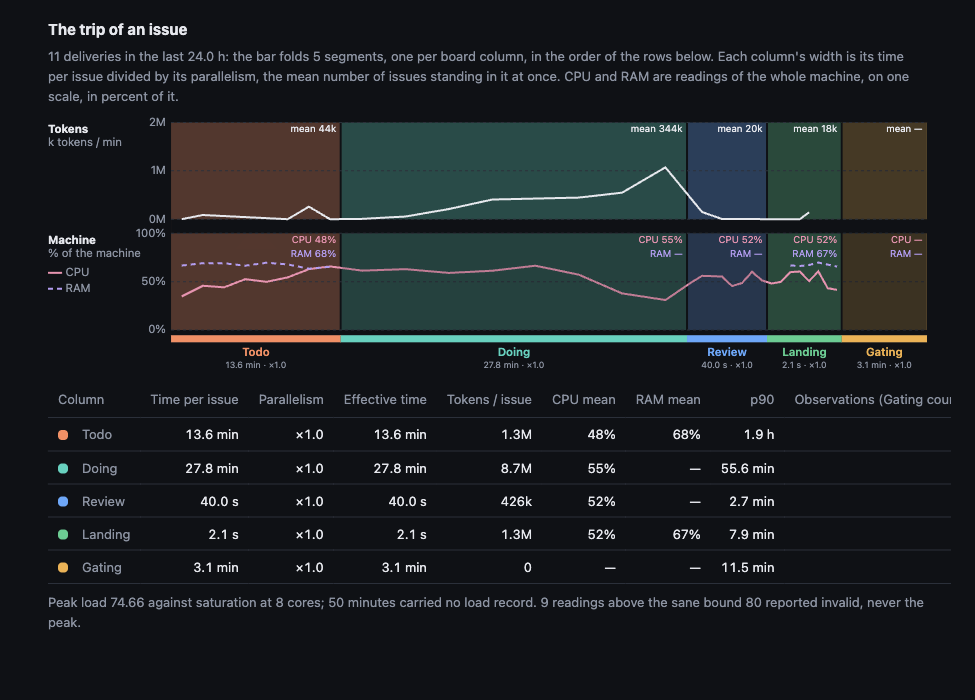
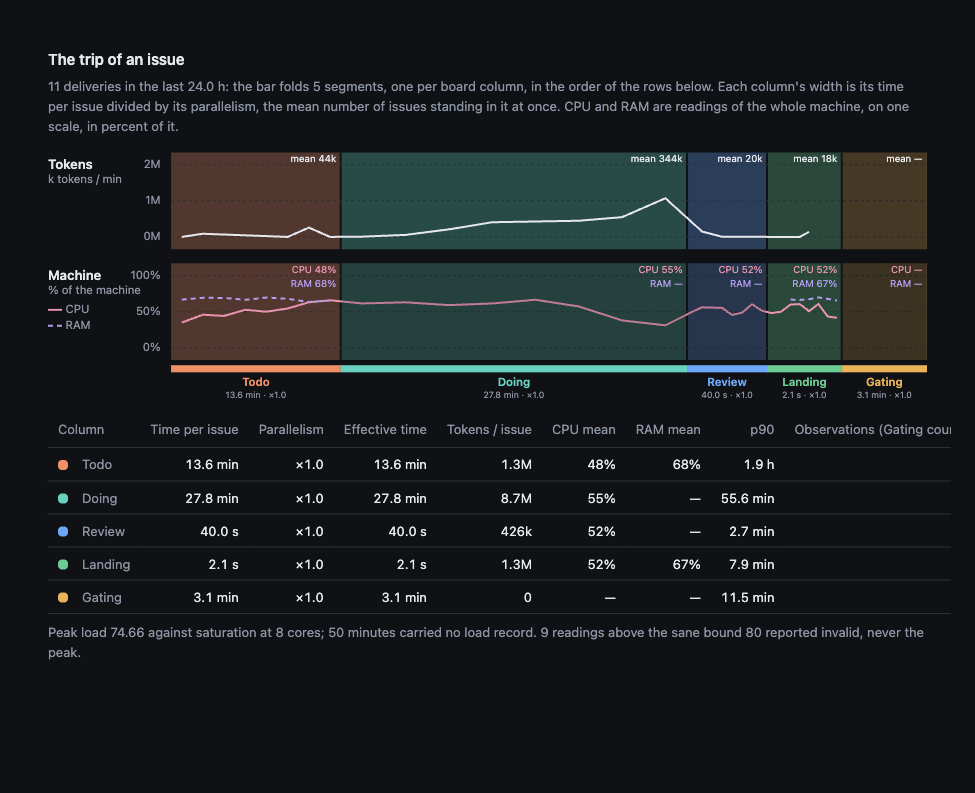
Give each trip chart lane an inner margin and its axis a gap
The mock draws each lane's scale inside its band by a margin, the axis
values a gap left of the plot, and the lane title larger, on the row of
its top value. Weights use the shared 600, so the type test passes.

Refs #2282

diff --git a/contrib/squad-goal/scripts/hub-profiler.js b/contrib/squad-goal/scripts/hub-profiler.js
@@ -58,7 +58,7 @@ const profTripTime=c=>`${profTripNum(c.effective_s)} · ${profTripPar(c.parallel
 // A text's width is its user-unit font size times its character count, so a label too wide for its column takes a leader
 // line instead of a box over its neighbour. Every glyph in the chart is sized in SVG user units, so its box scales with
 // the viewBox: the layout holds at 390 px and at 1440 px alike. A CSS caption size would not scale, so the chart sets none.
-const PROF_TRIP_W=1000,PROF_TRIP_GUTTER=140,PROF_TRIP_LANE=110,PROF_TRIP_TOP=8,PROF_TRIP_GAP=16;
+const PROF_TRIP_W=1000,PROF_TRIP_GUTTER=140,PROF_TRIP_LANE=110,PROF_TRIP_TOP=8,PROF_TRIP_GAP=16,PROF_TRIP_PAD=14,PROF_TRIP_AXIS_GAP=12,PROF_TRIP_TITLE=15;
 const PROF_TRIP_FONT=13,PROF_TRIP_CHAR=PROF_TRIP_FONT*0.6,PROF_TRIP_ROW=16;
 const PROF_TRIP_SMALL=10,PROF_TRIP_MEAN=11,PROF_TRIP_BAR=8,PROF_TRIP_BAR_GAP=6;
 const profTextW=(s,size)=>String(s).length*PROF_TRIP_CHAR*(size||PROF_TRIP_FONT)/PROF_TRIP_FONT;
@@ -109,12 +109,15 @@ function profTripChart(t,cols){
  const barY=macBot+PROF_TRIP_BAR_GAP,barBot=barY+PROF_TRIP_BAR,labTop=barBot+PROF_TRIP_ROW;
  // A point is a share (0 to 1) and an axis tick is a percent (0 to 100): the two scales differ, so no 50% tick lands
  // on the lane's top beside the 100% (#2253).
- const ty=v=>tokTop+lane*(1-(top>0?Math.min(Math.max(v,0)/top,1):0)),my=v=>macTop+lane*(1-Math.min(Math.max(v,0),1));
- const myTick=v=>macTop+lane*(1-Math.min(Math.max(v,0),100)/100);
+ // The scale stands inside each lane by a margin, so the top line and the zero line keep air from the lane's edges and
+ // the axis values stand beside their lines, never on the edge of the lane, as the mock draws them (#2282).
+ const P=PROF_TRIP_PAD,span=lane-2*P;
+ const ty=v=>tokTop+P+span*(1-(top>0?Math.min(Math.max(v,0)/top,1):0)),my=v=>macTop+P+span*(1-Math.min(Math.max(v,0),1));
+ const myTick=v=>macTop+P+span*(1-Math.min(Math.max(v,0),100)/100);
  const tx=(b,p)=>b.x0+Math.min(Math.max(p,0),1)*(b.x1-b.x0);
  // Each lane's values stand once, in the gutter, so no value is drawn over a lane, a band or a mean (#2253).
  const axis=(values,y0,fmt)=>values.map(v=>`<line class=ptg0 x1="${G}" y1="${y0(v).toFixed(1)}" x2="${PROF_TRIP_W}" y2="${y0(v).toFixed(1)}"></line>`
-  +`<text class=ptt x="${G-6}" y="${(y0(v)+4).toFixed(1)}" text-anchor=end>${esc(fmt(v))}</text>`).join("");
+  +`<text class=ptt x="${G-PROF_TRIP_AXIS_GAP}" y="${(y0(v)+4).toFixed(1)}" text-anchor=end>${esc(fmt(v))}</text>`).join("");
  const bandsOf=(y,h)=>bands.map(b=>`<rect class="ptc pts-${esc(b.c.column)}" x="${b.x0.toFixed(1)}" width="${(b.x1-b.x0).toFixed(1)}" y="${y}" height="${h}"></rect>`).join("");
  // One band per column over both lanes, so a column reads as one block; a dark gap then parts the two lanes, as the
  // mock draws them (#2282).
@@ -126,14 +129,16 @@ function profTripChart(t,cols){
  // Each lane's title, unit and legend stand in the left gutter (#2255); the Machine lane's legend keeps the colours of
  // the two lines it names, and the RAM entry's hover names the machine's memory in gigabytes.
  const ramMem=t.mem_gb==null?"":"<title>the machine holds "+Number(t.mem_gb).toFixed(1)+" GB of memory</title>";
- const gutter=`<text class=ptn x="0" y="${(tokTop+12).toFixed(1)}">Tokens</text>`
-  +`<text class=ptu x="0" y="${(tokTop+27).toFixed(1)}">k tokens / min</text>`
-  +`<text class=ptn x="0" y="${(macTop+12).toFixed(1)}">Machine</text>`
-  +`<text class=ptu x="0" y="${(macTop+27).toFixed(1)}">% of the machine</text>`
-  +`<line class="ptkey ptl-cpu" x1="0" y1="${(macTop+45).toFixed(1)}" x2="16" y2="${(macTop+45).toFixed(1)}"></line>`
-  +`<text class=ptu x="20" y="${(macTop+49).toFixed(1)}">CPU</text>`
-  +`<line class="ptkey ptl-ram" x1="0" y1="${(macTop+63).toFixed(1)}" x2="16" y2="${(macTop+63).toFixed(1)}">${ramMem}</line>`
-  +`<text class=ptu x="20" y="${(macTop+67).toFixed(1)}">RAM</text>`;
+ // A lane's title stands on the line of its top value, so the title and the scale read as one row.
+ const tt=tokTop+P+5,mt=macTop+P+5;
+ const gutter=`<text class=ptn x="0" font-size=${PROF_TRIP_TITLE} y="${tt.toFixed(1)}">Tokens</text>`
+  +`<text class=ptu x="0" y="${(tt+16).toFixed(1)}">k tokens / min</text>`
+  +`<text class=ptn x="0" font-size=${PROF_TRIP_TITLE} y="${mt.toFixed(1)}">Machine</text>`
+  +`<text class=ptu x="0" y="${(mt+16).toFixed(1)}">% of the machine</text>`
+  +`<line class="ptkey ptl-cpu" x1="0" y1="${(mt+34).toFixed(1)}" x2="16" y2="${(mt+34).toFixed(1)}"></line>`
+  +`<text class=ptu x="20" y="${(mt+38).toFixed(1)}">CPU</text>`
+  +`<line class="ptkey ptl-ram" x1="0" y1="${(mt+52).toFixed(1)}" x2="16" y2="${(mt+52).toFixed(1)}">${ramMem}</line>`
+  +`<text class=ptu x="20" y="${(mt+56).toFixed(1)}">RAM</text>`;
  // The trip bar is thin, it has the plot's width and it sits under the Machine lane (#2255): one segment a column, each
  // under its band, and a column with no median paints no colour.
  const barBands=bands.map(b=>{const painted=(b.c.median_s||0)>0;

diff --git a/contrib/squad-goal/scripts/hub-profiler.css b/contrib/squad-goal/scripts/hub-profiler.css
@@ -4,7 +4,7 @@
 #profb .psw{position:relative;flex:none;width:52px;aspect-ratio:52/32;padding:0;border:0;border-radius:var(--radius-xl);background:var(--edge);cursor:pointer;transition:background var(--motion-duration-short) var(--motion-entry-easing)}#profb .psw[aria-checked=true]{background:var(--ok)}
 #profb .psw i{position:absolute;top:50%;margin-top:-13px;left:3px;width:26px;height:26px;border-radius:var(--radius-full);background:var(--highlight);transition:transform var(--motion-duration-short) var(--motion-entry-easing)}#profb .psw[aria-checked=true] i{transform:translateX(20px)}
 #profb .psw:disabled{opacity:.6;cursor:default}#profb .psw:focus-visible{outline:2px solid var(--acc);outline-offset:2px}
-#proftrip{margin:0 0 16px}#proftrip h3{margin:0 0 4px;font-size:var(--fs-body);font-weight:700}#proftrip .tpn{color:var(--mute);font-size:var(--fs-caption);margin:0 0 10px}
+#proftrip{margin:0 0 16px}#proftrip h3{margin:0 0 4px;font-size:var(--fs-body);font-weight:600}#proftrip .tpn{color:var(--mute);font-size:var(--fs-caption);margin:0 0 10px}
 #proftrip .ptb{display:flex;gap:1px;width:100%;height:14px;margin:0 0 8px;border-radius:var(--radius-lg);overflow:hidden;background:var(--edge)}#proftrip i.ptb-seg{display:block;height:100%;min-width:4px}
 #proftrip .ptk{display:inline-block;width:10px;height:10px;margin-right:8px;border-radius:var(--radius-sm);vertical-align:-1px;background:currentColor}
 #proftrip .pts-todo{background:var(--s5)}#proftrip .pts-doing{background:var(--run)}#proftrip .pts-review{background:var(--acc)}#proftrip .pts-gating{background:var(--warn)}#proftrip .pts-landing{background:var(--ok)}
@@ -27,7 +27,7 @@
 /* The chart sizes its glyphs in SVG user units on the svg element, so each box scales with the viewBox; no CSS
    length here takes that over, because a caption size would not scale and would share boxes at a narrow width. */
 #proftrip .ptt,#proftrip .ptn,#proftrip .ptu,#proftrip .ptlm{fill:var(--mute)}
-#proftrip .ptn{fill:var(--fg);font-weight:700}
+#proftrip .ptn{fill:var(--fg);font-weight:600}
 #proftrip .ptlb{fill:var(--fg)}#proftrip .ptls{fill:var(--mute)}
 #proftrip .ptgap{fill:var(--bg)}#proftrip .ptfoot{color:var(--mute);font-size:var(--fs-caption);margin:8px 0 0}
 #proftrip text.ptlb.pts-todo{fill:var(--s5)}#proftrip text.ptlb.pts-doing{fill:var(--run)}#proftrip text.ptlb.pts-review{fill:var(--acc)}

diff --git a/tests/test_hub_profiler.py b/tests/test_hub_profiler.py
@@ -3446,11 +3446,12 @@ def test_the_machine_axis_scales_its_percent_ticks_over_the_lane():
     top = float(re.search(r"PROF_TRIP_TOP=(\d+)", src).group(1))
     lane_h = float(re.search(r"PROF_TRIP_LANE=(\d+)", src).group(1))
     gap = float(re.search(r"PROF_TRIP_GAP=(\d+)", src).group(1))
+    pad = float(re.search(r"PROF_TRIP_PAD=(\d+)", src).group(1))
     mac_top = top + lane_h + gap
     ys = [float(y) for y in re.findall(r'<line class=ptg0 x1="[\d.]+" y1="([\d.]+)"', chart_svg(chart_js()))]
-    assert ys == [top + lane_h, top + lane_h / 2, top,
-                  mac_top + lane_h, mac_top + lane_h / 2, mac_top], \
-        "0% stands at each lane's bottom, 50% at its middle and 100% at its top"
+    assert ys == [top + lane_h - pad, top + lane_h / 2, top + pad,
+                  mac_top + lane_h - pad, mac_top + lane_h / 2, mac_top + pad], \
+        "0% stands on each lane's bottom margin, 50% at its middle and 100% on its top margin (#2282)"
 
 
 def test_each_axis_value_prints_once():
@@ -3676,7 +3677,8 @@ def test_the_chart_draws_the_ticks_and_the_points_the_payload_holds():
     assert todo["tokens"]["points"] == [[0.5625, 480.0]]
     line = re.search(r'<polyline class="ptl-tok" points="([\d.]+),([\d.]+)', out)
     assert (float(line.group(1)), float(line.group(2))) == \
-        (pytest.approx(x0 + 0.5625 * w, abs=0.1), pytest.approx(trip_consts()["top"] + trip_consts()["lane"] * (1 - 480 / 1000), abs=0.1)), \
+        (pytest.approx(x0 + 0.5625 * w, abs=0.1), pytest.approx(trip_consts()["top"] + trip_consts()["pad"]
+                                                 + (trip_consts()["lane"] - 2 * trip_consts()["pad"]) * (1 - 480 / 1000), abs=0.1)), \
         "the first Tokens point sits at its position in Todo and its height on the payload's own scale"
 
 
@@ -4329,7 +4331,7 @@ def trip_consts():
     def num(name):
         return float(re.search(name + r"=([\d.]+)", src).group(1))
     return {"gutter": num("PROF_TRIP_GUTTER"), "lane": num("PROF_TRIP_LANE"), "top": num("PROF_TRIP_TOP"),
-            "gap": num("PROF_TRIP_GAP"), "row": num("PROF_TRIP_ROW")}
+            "gap": num("PROF_TRIP_GAP"), "row": num("PROF_TRIP_ROW"), "pad": num("PROF_TRIP_PAD")}
 
 
 def test_the_blocks_follow_the_mock_from_the_heading_to_the_table():
@@ -4625,3 +4627,24 @@ def test_a_mean_in_a_lane_is_smaller_than_a_label():
     svg = chart_svg(chart_js())
     sizes = set(re.findall(r'<text class="ptlm [^"]*"[^>]*font-size=(\d+)>', svg))
     assert sizes == {"11"} and 11 < chart_metrics()[2], "each mean prints at 11 units, under the 13 of a label"
+
+
+def test_each_lane_keeps_a_margin_inside_its_band_and_its_values_stand_off_the_plot():
+    """#2282: the mock draws each lane's scale inside its band by a margin, its values a gap left of the plot, and the
+    lane's title on the row of its top value."""
+    c = trip_consts()
+    src = (SCRIPTS / "hub-profiler.js").read_text()
+    gap = float(re.search(r"PROF_TRIP_AXIS_GAP=(\d+)", src).group(1))
+    svg = chart_svg(chart_js())
+    lines = [float(y) for y in re.findall(r'<line class=ptg0 x1="[\d.]+" y1="([\d.]+)"', svg)]
+    assert min(lines) - c["top"] >= c["pad"] >= 10, "the top value line keeps air above it"
+    assert c["top"] + c["lane"] - max(lines[:3]) >= c["pad"], "the zero line keeps air below it"
+    xs = {float(x) for x in re.findall(r'<text class=ptt x="([\d.]+)"', svg)}
+    assert xs == {c["gutter"] - gap} and gap >= 10, "every axis value stands one gap left of the plot"
+    title = re.search(r'<text class=ptn x="0" font-size=(\d+) y="([\d.]+)">Tokens</text>', svg)
+    assert title and int(title.group(1)) > trip_consts_font(src), "the lane title is larger than the chart text"
+    assert abs(float(title.group(2)) - (min(lines) + 4)) <= 2, "the title stands on the row of the top value"
+
+
+def trip_consts_font(src):
+    return int(re.search(r"PROF_TRIP_FONT=(\d+)", src).group(1))
